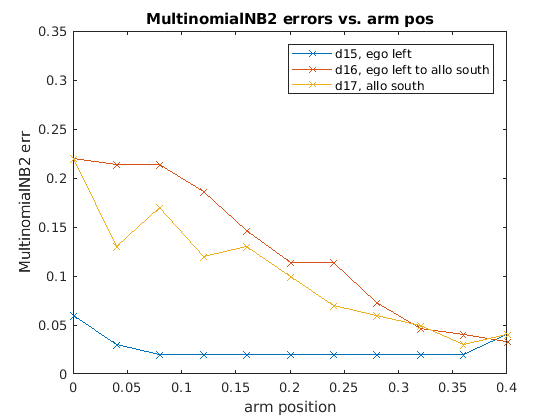
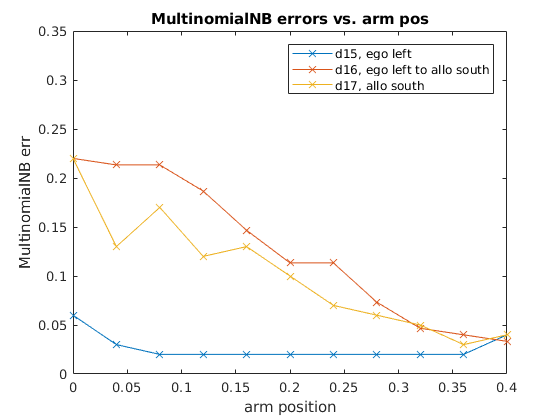
finally chose rounding

diff --git a/main_alg.m b/main_alg.m
@@ -2,14 +2,14 @@
 %run_alg(@mnb_train, @mnb_test, 'MultinomialNB', 'step', 0.04);
 
 %%%%%%running GaussNB <- can't run this because some features have 0 variance
-%another Multinomial_NB, arbitrarily discretize it, using a factor of 40
+%% another Multinomial_NB, arbitrarily discretize it, using a factor of 40
 %(approx. value of mn dist. n parameter)
-m2nb_pre = @(X) round(40*X);
+m2nb_pre = @(X) round(X);
 m2nb_train = @(X_train, ks_train) fitcnb(X_train, ks_train, 'Distribution', 'mn');
 m2nb_test = @(model, X_test) predict(model, X_test);
-run_alg(m2nb_train, m2nb_test, 'MultinomialNB2', 'preprocessor', @round, 'step', 0.04);
+run_alg(m2nb_train, m2nb_test, 'MultinomialNB', 'preprocessor', m2nb_pre, 'step', 0.04);
 
-%running SVM
+%% running SVM
 svm_train = @(X_train, ks_train) fitclinear(X_train, ks_train,...
     'Learner', 'svm', 'ClassNames', [1 2]);
 svm_test = @(model, X_test) predict(model, X_test);
